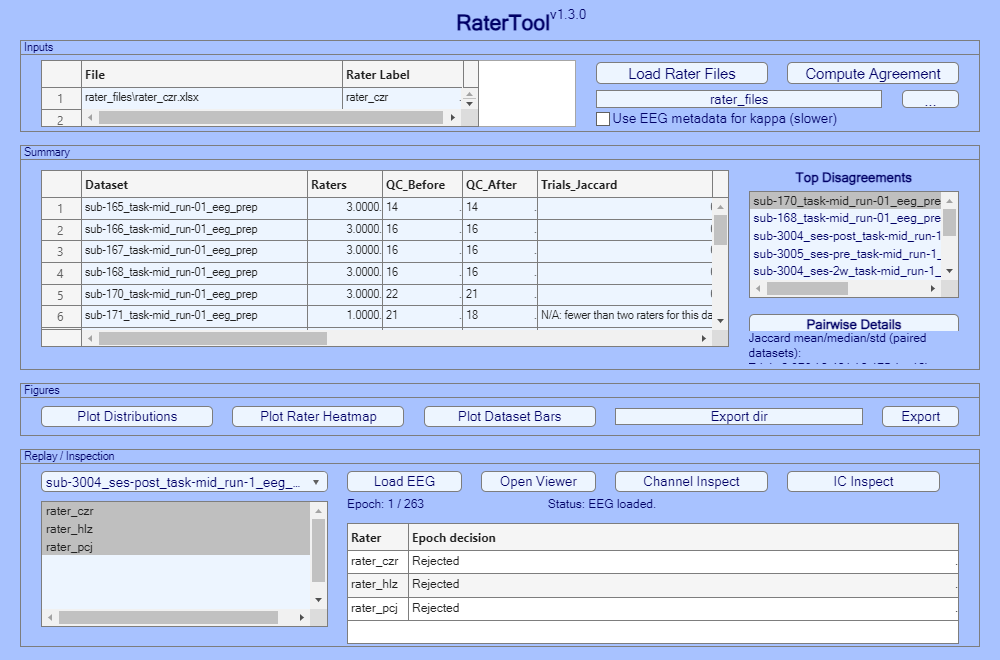
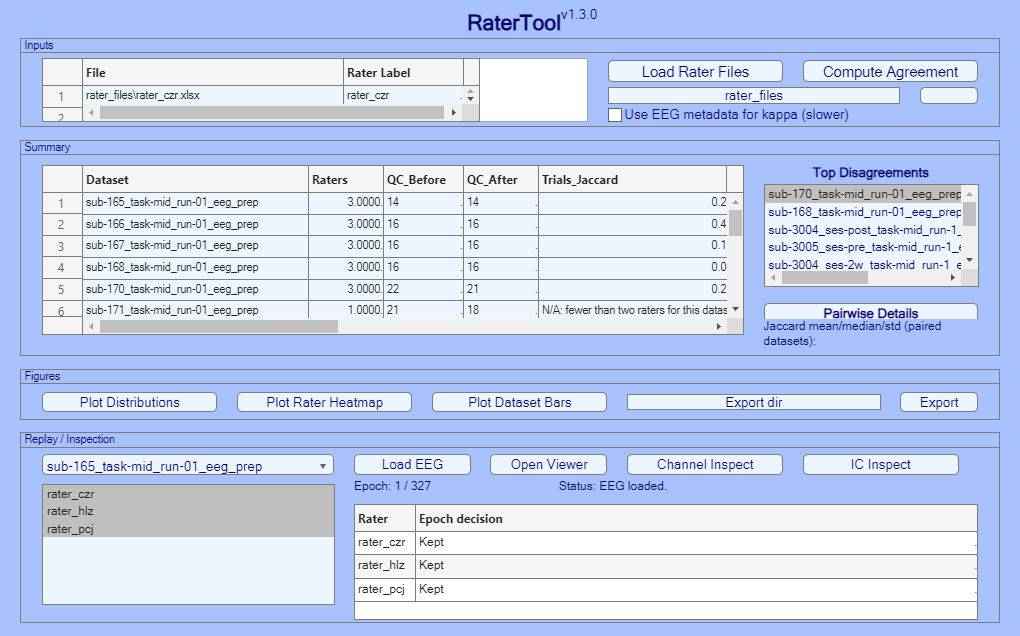
Show lower scores as higher quality and illustrate rater consensus alongside disagreement

Changed region(s): [[0.0, 0.0, 0.992, 0.9858], [0.558, 0.0, 0.589, 0.0299]]

diff --git a/tests/run_manualqc_regression.m b/tests/run_manualqc_regression.m
@@ -12,10 +12,10 @@ cleanup = onCleanup(@() restoreEnvironment(oldFigures, oldVisibility, oldPath, o
 addpath(eeglabRoot);
 addpath(genpath(fullfile(eeglabRoot, 'functions')));
 addpath(fullfile(fileparts(testDir), 'manualqc'));
-assert(strcmp(manualqc_score_label(18.49), '18 (Low, <=18)'));
-assert(strcmp(manualqc_score_label(18.50), '19 (Mid, 19-28)'));
-assert(strcmp(manualqc_score_label(28.49), '28 (Mid, 19-28)'));
-assert(strcmp(manualqc_score_label(28.50), '29 (High, >=29)'));
+assert(strcmp(manualqc_score_label(18.49), '18 (High quality, <=18)'));
+assert(strcmp(manualqc_score_label(18.50), '19 (Moderate quality, 19-28)'));
+assert(strcmp(manualqc_score_label(28.49), '28 (Moderate quality, 19-28)'));
+assert(strcmp(manualqc_score_label(28.50), '29 (Low quality, >=29)'));
 assert(strcmp(manualqc_score_label(NaN), 'N/A'));
 set(0, 'DefaultFigureVisible', 'off');
 startupPath = fullfile(testDir, 'private', 'startup_stubs');

diff --git a/manualqc/manualqc_score_label.m b/manualqc/manualqc_score_label.m
@@ -5,11 +5,11 @@ if ~isfinite(score)
     label = 'N/A';
     return
 elseif score <= 18
-    band = 'Low, <=18';
+    band = 'High quality, <=18';
 elseif score <= 28
-    band = 'Mid, 19-28';
+    band = 'Moderate quality, 19-28';
 else
-    band = 'High, >=29';
+    band = 'Low quality, >=29';
 end
 label = sprintf('%d (%s)', score, band);
 end

diff --git a/website/guide/start.md b/website/guide/start.md
@@ -31,7 +31,7 @@ Click **Search**. Compare the filename in the results window with the expression
 ![ManualQC workbench after loading the bundled sub-165 dataset](/figures/workbench.png)
 <p class="caption"><strong>Read the workbench from top to bottom.</strong> Search and load at the top; inspect epochs, channels and ICs in the middle; check the dataset and your recorded decisions in the information panel.</p>
 
-**Checkpoint:** the window title identifies the dataset. For this sample, the information panel reports **327 trials, 59 channels and 52 ICs**. The sample's amplitude-spread score is **33 (High)**.
+**Checkpoint:** the window title identifies the dataset. For this sample, the information panel reports **327 trials, 59 channels and 52 ICs**. The workbench displays **Data Quality: 33 (Low quality, >=29)**.
 
 ## Filename patterns
 
@@ -46,18 +46,18 @@ Search checks **filenames**, not folder paths, including files in subfolders. Ty
 
 Read `^sub-165_.*\.set$` from left to right: `^` anchors the start; `sub-165_` is literal; `.*` allows any intervening text; `\.` matches a literal dot; `$` anchors the end. In the run pattern, `0?` means an optional zero. Always check the results before loading a batch.
 
-## Amplitude spread
+## Data Quality
 
-The score describes typical amplitude variation, not the proportion of clean epochs. The current calculation is **not** limited to the first 5,000 points and does **not** process every point of a long recording:
+The score measures typical amplitude variation. For recordings with the same units, reference and preprocessing, lower values generally indicate better quality. The current calculation is **not** limited to the first 5,000 points and does **not** process every point of a long recording:
 
 1. Concatenate epochs in time order. Sample up to 5,000 equally spaced positions from first to last, using the same positions for all channels.
 2. Split the sampled sequence into five equal-length windows; omit any trailing remainder. Compute each channel's sample standard deviation per window, then take its median across windows. With fewer than five positions, use one standard deviation per channel.
 3. Take a 5% trimmed mean across channels and multiply by three. The result has the same units as the input amplitudes; it is not a percentage.
 
-| Displayed integer | Spread band |
+| Displayed integer | Quality band |
 | --- | --- |
-| 18 or less | Low |
-| 19 to 28 | Mid |
-| 29 or more | High |
+| 18 or less | High quality |
+| 19 to 28 | Moderate quality |
+| 29 or more | Low quality |
 
-Round first, then read the band: 28.4 displays as **28 (Mid)**; 28.6 as **29 (High)**. Logs retain decimal scores for before/after comparison and ICC. Compare recordings with the same units, reference and preprocessing. A brief artifact can be missed by sampling or suppressed by the median; a flat signal can score low. Inspect the traces before choosing **Usable**, **Recheck** or **Not usable**.
+Round first, then read the band: 28.4 displays as **28 (Moderate quality)**; 28.6 as **29 (Low quality)**. Logs retain decimal scores for before/after comparison and ICC. A brief artifact can be missed by sampling or suppressed by the median; a flat signal can score low. Inspect the traces before choosing **Usable**, **Recheck** or **Not usable**.

diff --git a/website/zh/guide/start.md b/website/zh/guide/start.md
@@ -31,7 +31,7 @@ manualqc
 ![加载 sub-165 后的 ManualQC 工作台](/figures/workbench.png)
 <p class="caption"><strong>自上而下看工作台。</strong> 上方搜索和加载，中间打开各类检查窗口，信息区显示当前数据和已确认的决定。</p>
 
-**核对：** 窗口标题显示预期的数据集，信息区应显示 **327 个试次、59 个通道、52 个 IC**。该示例的振幅离散度为 **33（High，高）**。
+**核对：** 窗口标题显示预期的数据集，信息区应显示 **327 个试次、59 个通道、52 个 IC**。工作台显示 **Data Quality: 33 (Low quality, >=29)**，即该分数落在低质量档。
 
 ## 常用文件名表达式
 
@@ -46,18 +46,18 @@ manualqc
 
 以 `^sub-165_.*\.set$` 为例：`^` 表示开头，`sub-165_` 原样匹配，`.*` 允许中间出现任意文本，`\.` 匹配字面上的点，`$` 表示结尾。最后一个例子中的 `0?` 表示这个零可有可无。开始批量加载前，先核对搜索结果。
 
-## 如何解读振幅离散度
+## 如何解读 Data Quality
 
-这个分数反映典型的振幅波动，不是干净试次占比。它**不是只看前 5,000 点，也不是对长记录的每个点都计算**：
+这个分数衡量典型的振幅波动。在单位、参考和预处理相同的情况下，分数越低通常表示数据质量越好。它**不是只看前 5,000 点，也不是对长记录的每个点都计算**：
 
 1. 按时间顺序拼接所有 epoch，从头到尾等距取最多 5,000 个位置，各通道使用相同位置。
 2. 将抽到的点分为五个等长窗口，尾部不足以平分的余数不参与计算。分别求每个通道在各窗口的样本标准差，再取五个值的中位数。若总点数不足五个，则直接求各通道标准差。
 3. 对各通道的结果取 5% 截尾均值，再乘以三。分数单位与输入振幅一致，不是百分数。
 
-| 显示的整数 | 振幅离散度 |
+| 显示的整数 | 质量档位 |
 | --- | --- |
-| ≤18 | Low，低 |
-| 19 到 28 | Mid，中 |
-| ≥29 | High，高 |
+| ≤18 | High quality，高 |
+| 19 到 28 | Moderate quality，中等 |
+| ≥29 | Low quality，低 |
 
-先四舍五入，再分档：28.4 显示为 **28（中）**，28.6 显示为 **29（高）**。日志保留小数，供处理前后比较和 ICC 计算。请在相同单位、参考和预处理条件下比较。短暂伪迹可能未被采到，或被跨窗口中位数淡化；平直信号也可能得低分。因此，应看波形后再判定 **Usable**、**Recheck** 或 **Not usable**。
+先四舍五入，再分档：28.4 显示为 **28（中等质量）**，28.6 显示为 **29（低质量）**。日志保留小数，供处理前后比较和 ICC 计算。短暂伪迹可能未被采到，或被跨窗口中位数淡化；平直信号也可能得低分。因此，应看波形后再判定 **Usable**、**Recheck** 或 **Not usable**。

diff --git a/website/guide/raters.md b/website/guide/raters.md
@@ -11,12 +11,12 @@ Start from **independent logs of the same pre-QC recordings**. Do not point repl
 ![RaterTool displaying the three example rater files, agreement summary and replay controls](/figures/raters.png)
 <p class="caption"><strong>Three levels of inspection.</strong> Inputs identify the raters; Summary compares their decisions; Replay connects a selected dataset and epoch to individual rater decisions.</p>
 
-## Replay a difference
+## Replay agreement and disagreement
 
-Select `sub-3004_ses-post_task-mid_run-1_eeg_prep`, keep all three raters selected, and click **Load EEG**. **Open Viewer** opens the traces. In the position box between the arrows, type **9** and press Enter. The screen now shows epochs 9 to 13. Read the epoch numbers along the top, not the millisecond ticks below the traces.
+Select `sub-165_task-mid_run-01_eeg_prep`, keep all three raters selected, and click **Load EEG**. **Open Viewer** opens the traces. In the position box between the arrows, type **175** and press Enter. The screen now shows epochs 175 to 179. Read the epoch numbers along the top, not the millisecond ticks below the traces.
 
-![EEG replay at epochs 9 to 13: epoch 11 has the red and green rater bands but no blue band](/figures/replay.png)
-<p class="caption"><strong>Read epoch 11.</strong> The red and green bands mean <code>rater_czr</code> and <code>rater_hlz</code> rejected this epoch. There is no blue band: <code>rater_pcj</code> kept it. The colors identify reviewers, not EEG amplitude or artifact severity.</p>
+![Replay of epochs 175–179 with all three rater bands on epochs 177 and 178](/figures/replay.png)
+<p class="caption"><strong>Compare the five epochs.</strong> All three raters kept epoch 175 and rejected 177 and 178. Only <code>rater_czr</code> (red) and <code>rater_pcj</code> (blue) rejected 176. Only <code>rater_pcj</code> rejected 179. Green identifies <code>rater_hlz</code>.</p>
 
 Use **Channel Inspect** or **IC Inspect** if the difference concerns a sensor or component. The overlay shows where judgments differ; it does not decide which rater is correct.
 

diff --git a/website/zh/guide/raters.md b/website/zh/guide/raters.md
@@ -11,12 +11,12 @@
 ![示例三份评分表加载后的 RaterTool 结果和回放区域](/figures/raters.png)
 <p class="caption"><strong>分三层阅读。</strong> 顶部识别评分者，中部汇总一致性，底部把当前数据集和 epoch 对应到每位评分者的判断。</p>
 
-## 回放一个分歧
+## 在同一页查看一致与分歧
 
-选择 `sub-3004_ses-post_task-mid_run-1_eeg_prep`，保持三位评分者全部选中，点击 **Load EEG**，再点 **Open Viewer** 打开波形。在箭头之间的位置框输入 **9** 并回车，即可看到第 9 至 13 个 epoch。上方数字是 epoch 编号，下方刻度是毫秒。
+选择 `sub-165_task-mid_run-01_eeg_prep`，保持三位评分者全部选中，点击 **Load EEG**，再点 **Open Viewer** 打开波形。在箭头之间的位置框输入 **175** 并回车，即可看到第 175 至 179 个 epoch。上方数字是 epoch 编号，下方刻度是毫秒。
 
-![第 9 至 13 个 epoch 的实际回放；第 11 个有红、绿两条评分者色带，没有蓝色带](/figures/replay.png)
-<p class="caption"><strong>看第 11 个 epoch。</strong> 红色和绿色分别表示 <code>rater_czr</code> 和 <code>rater_hlz</code> 拒绝了该试次；没有蓝色，说明 <code>rater_pcj</code> 保留了它。颜色区分评分者，不代表振幅或伪迹严重程度。</p>
+![第 175 至 179 个 epoch 的回放，第 177 和 178 个 epoch 都有三种评分者色带](/figures/replay.png)
+<p class="caption"><strong>对照这五个 epoch。</strong> 三人都保留了第 175 个，都剔除了第 177 和 178 个。第 176 个只有 <code>rater_czr</code>（红）和 <code>rater_pcj</code>（蓝）剔除，第 179 个只有 <code>rater_pcj</code> 剔除。绿色对应 <code>rater_hlz</code>。</p>
 
 如果分歧涉及通道或独立成分，使用 **Channel Inspect** 或 **IC Inspect**。回放能定位分歧，不能判定哪位评分者正确。
 

diff --git a/README.md b/README.md
@@ -24,7 +24,7 @@ manualqc
 
 <img src="website/public/figures/workbench.png" alt="ManualQC workbench with the bundled sample loaded" width="720">
 
-The example shows **33 (High)** for amplitude spread. This is a descriptive band, not an automatic rejection. See [how the score is calculated](https://zh1peng.github.io/ManualQC/guide/start.html#amplitude-spread) and [how to search by filename](https://zh1peng.github.io/ManualQC/guide/start.html#filename-patterns).
+The workbench displays **Data Quality: 33 (Low quality, >=29)**. Lower scores generally indicate better quality for recordings with comparable preprocessing. See [how the score is calculated](https://zh1peng.github.io/ManualQC/guide/start.html#data-quality) and [how to search by filename](https://zh1peng.github.io/ManualQC/guide/start.html#filename-patterns).
 
 ## Compare reviewers
 
